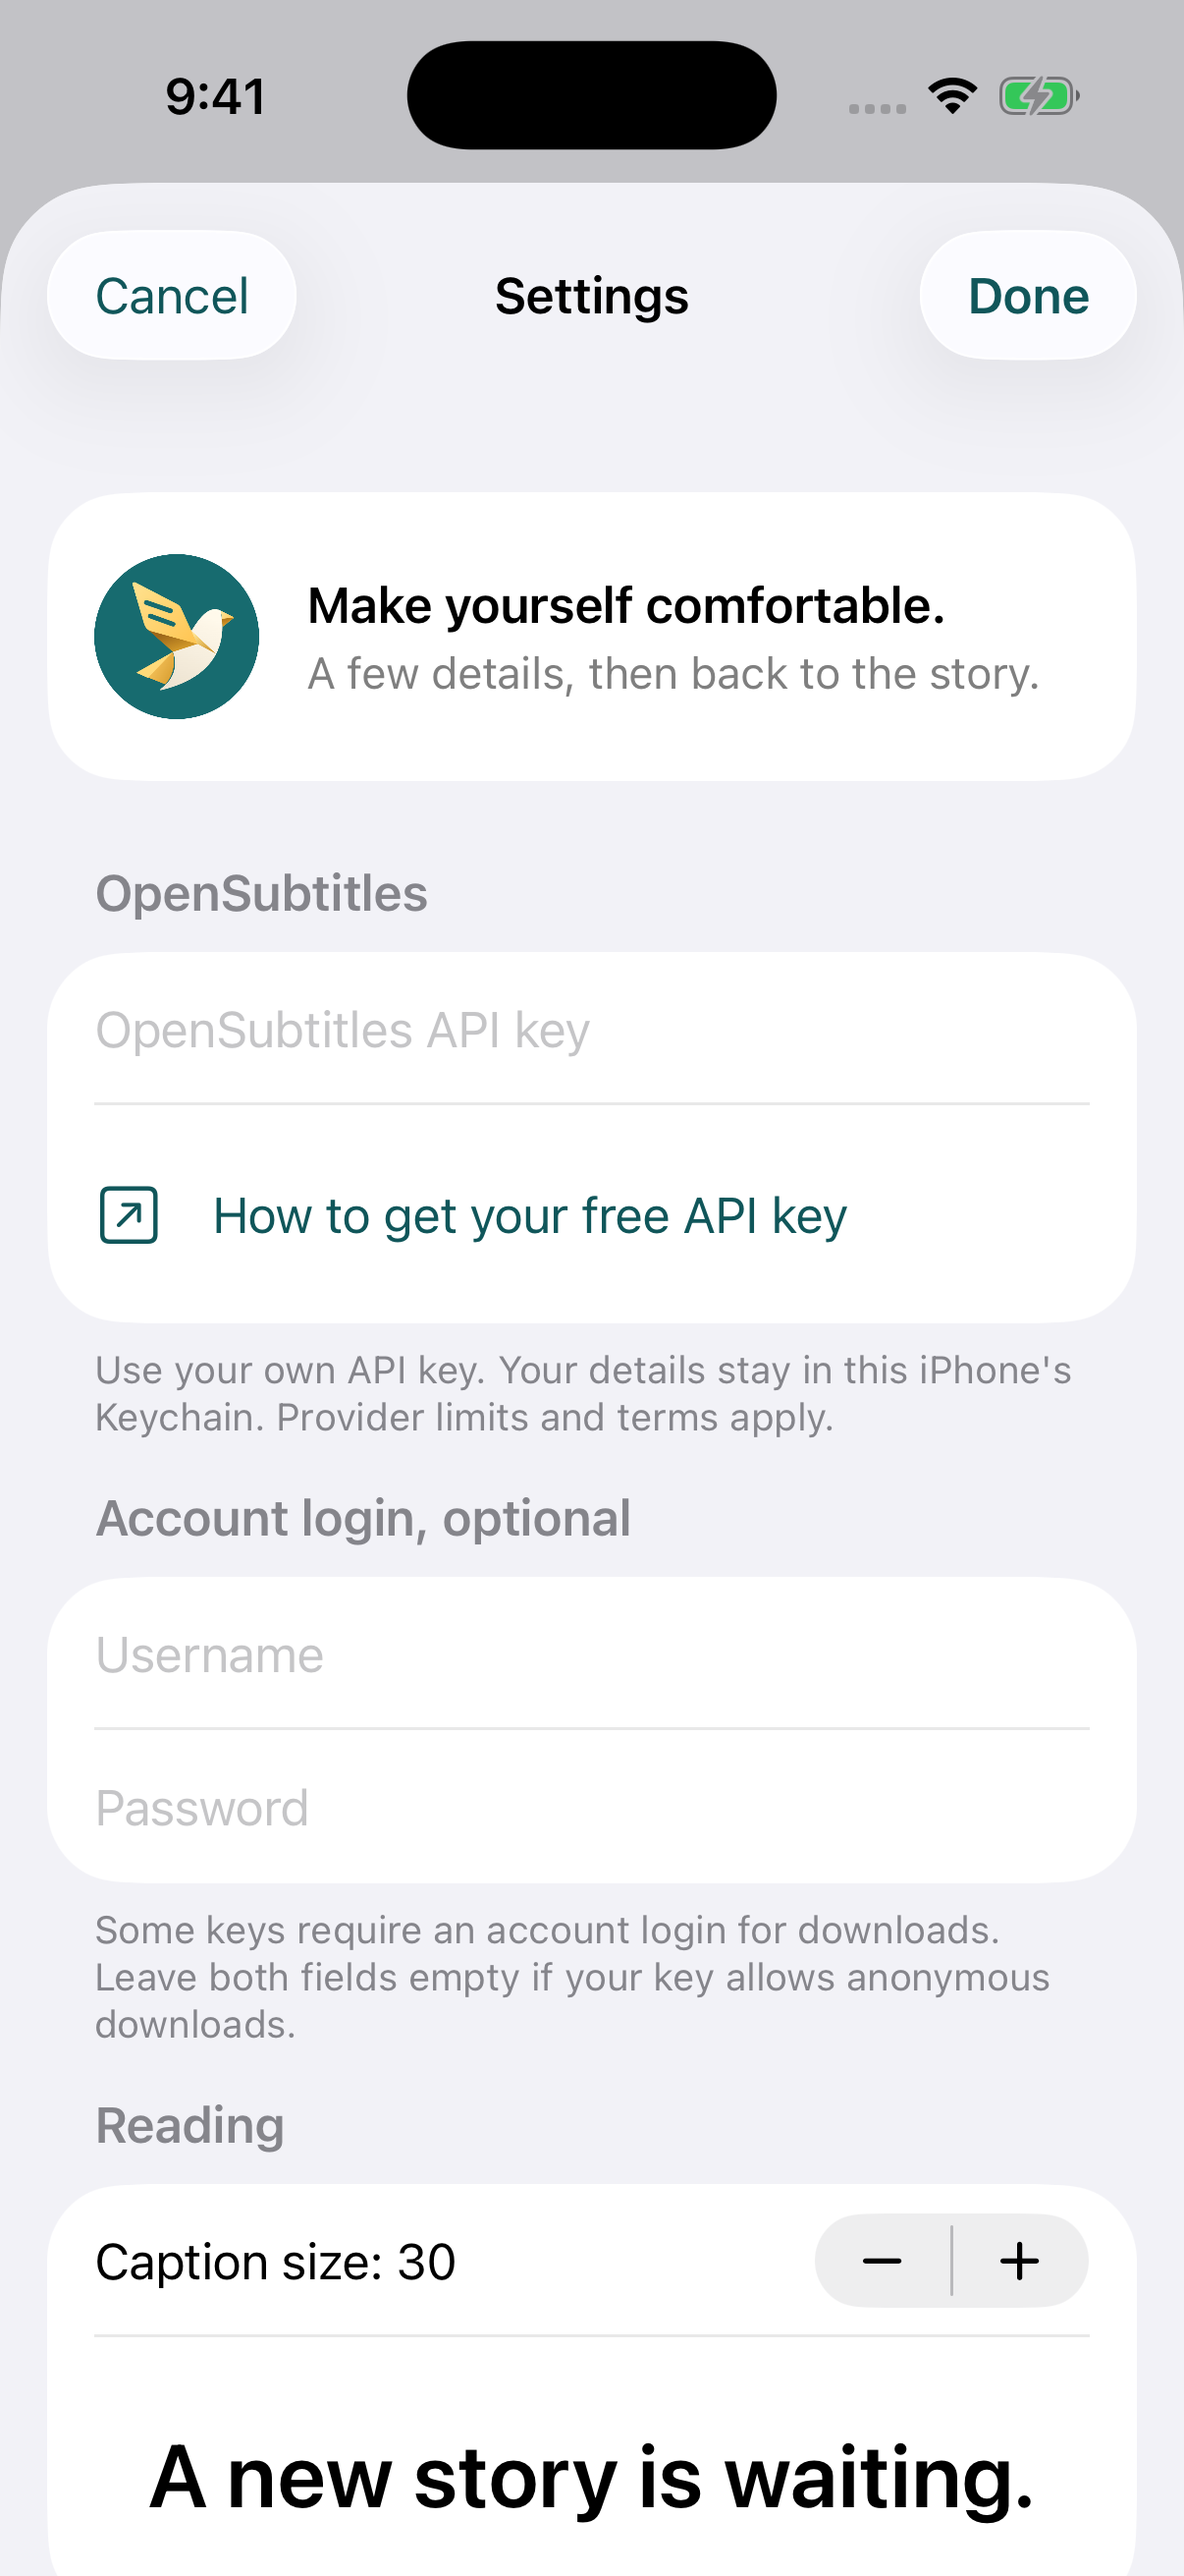
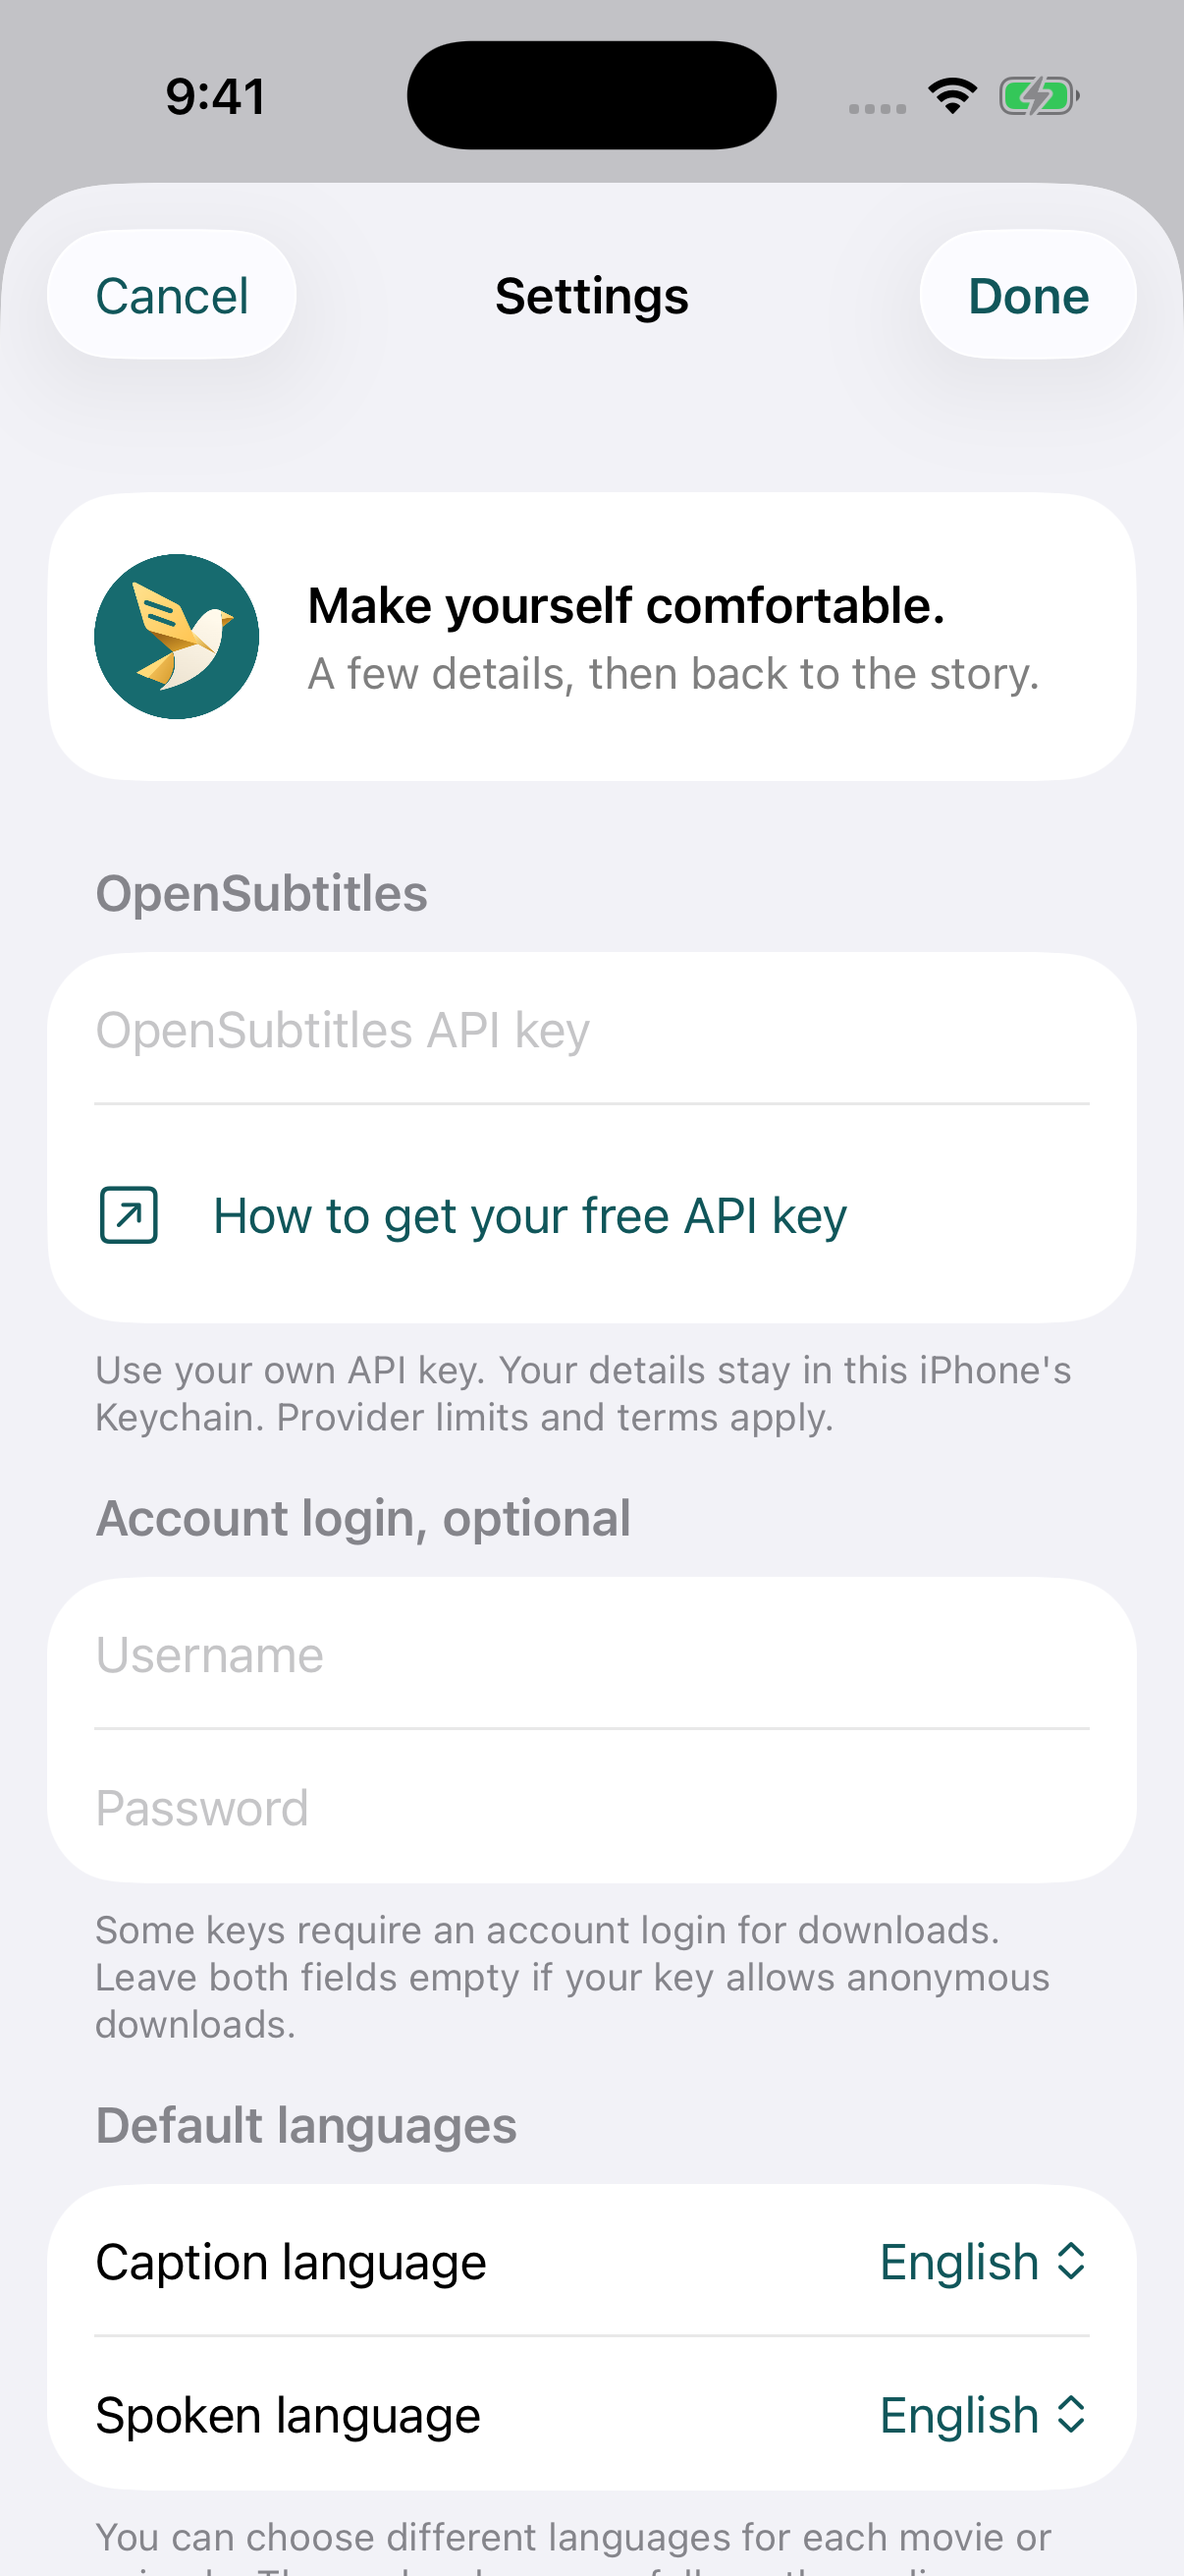
Document verified multilingual preview and refresh native captures

diff --git a/docs/VERIFICATION.md b/docs/VERIFICATION.md
@@ -4,7 +4,11 @@ This is a development preview for real-device testing. It has been compiled and 
 
 ## Multilingual 0.2.0 changes
 
-The multilingual changes add core, native storage/model-download, lifecycle and SwiftUI tests. They require a new macOS CI run before being treated as toolchain-verified. No new spoken-language pair has physical-device validation, and all nine remain manual in production. The evidence below describes the earlier English-only baseline, not multilingual accuracy. See MULTILINGUAL.md for the activation matrix and required corpus.
+[Successful multilingual run](https://github.com/desigrit/kaptus-ios/actions/runs/36779217955), source commit `01567cd`, completed on September 30, 2026 with Xcode 26.3 and iPhone 17 Pro Simulator on iOS 26.2. All 62 automated tests passed: 40 core tests, 17 native tests and 5 SwiftUI tests. The unsigned arm64 iPhone Release target compiled, the English/VAD model digests passed bundle verification, and the committed generated Xcode project byte-matches the compiled project.
+
+New checks exercise provider-language variants and the 69-language offline catalog, cache migration/isolation and shared-file roles, UTF-8/CJK/Indic normalization, optional model integrity/resume/cancellation, stale recognition sessions, helper timing/cut validation, direct translation ambiguity and unsupported-language microphone gating. Native UI tests exercise manual Arabic captions, rotation and separate language controls at the largest accessibility size. Screenshots were refreshed from this run.
+
+These tests verify software behavior, not multilingual speech accuracy. No new spoken-language pair has physical-device qualification, and all nine remain manual in production. See [the language matrix](MULTILINGUAL.md) for activation requirements. The English-only baseline below is retained as historical evidence.
 
 ## English-only baseline verified on September 22, 2026
 

diff --git a/README.md b/README.md
@@ -57,7 +57,7 @@ Start with **Try a sample** to explore the player. Its dialogue is original demo
 
 [Device testing and troubleshooting](docs/DEVICE_TESTING.md) includes the morning test sequence. [GitHub Actions](https://github.com/desigrit/kaptus-ios/actions/workflows/ios.yml) builds the iPhone target, runs core and simulator tests, and uploads simulator artifacts. A simulator build cannot be installed on a physical iPhone.
 
-The English-only 0.1.0 preview passed 35 automated tests on iPhone 17 Pro Simulator with iOS 26.2 and compiled its Release arm64 iPhone build using Xcode 26.3. The [independent review](docs/REVIEW.md) confirmed all three review findings were resolved. [Verification notes](docs/VERIFICATION.md) distinguish those checks from the remaining physical-phone tests.
+The multilingual 0.2.0 preview passed 62 automated tests on iPhone 17 Pro Simulator with iOS 26.2 and compiled its unsigned Release arm64 iPhone build using Xcode 26.3. New spoken-language accuracy still needs physical-phone testing. [Verification notes](docs/VERIFICATION.md) record the checks and their limits; the [earlier independent review](docs/REVIEW.md) remains available for the English-only baseline.
 
 ## Your OpenSubtitles key
 

diff --git a/docs/screenshots/README.md b/docs/screenshots/README.md
@@ -2,4 +2,4 @@
 
 These are actual iOS Simulator captures from the native SwiftUI app. They are not browser mockups or generated phone designs. The player uses original demonstration captions from `Kaptus/App/AppStore.swift`, so the images do not claim to show a real synchronized movie.
 
-Captured on iPhone 17 Pro Simulator running iOS 26.2, built with Xcode 26.3 at `9bd303f`. The [successful verification run](https://github.com/desigrit/kaptus-ios/actions/runs/35718030052) produced all six images. [Capture provenance and image digests](evidence.json) identify the exact originals. See [verification](../VERIFICATION.md) for test coverage. The yellow bird is the approved Kaptus brand artwork; see [asset provenance](../brand/PROVENANCE.md).
+Captured on iPhone 17 Pro Simulator running iOS 26.2, built with Xcode 26.3 at `01567cd`. The [successful verification run](https://github.com/desigrit/kaptus-ios/actions/runs/36779217955) produced all six images. [Capture provenance and image digests](evidence.json) identify the exact originals. See [verification](../VERIFICATION.md) for test coverage. The yellow bird is the approved Kaptus brand artwork; see [asset provenance](../brand/PROVENANCE.md).
